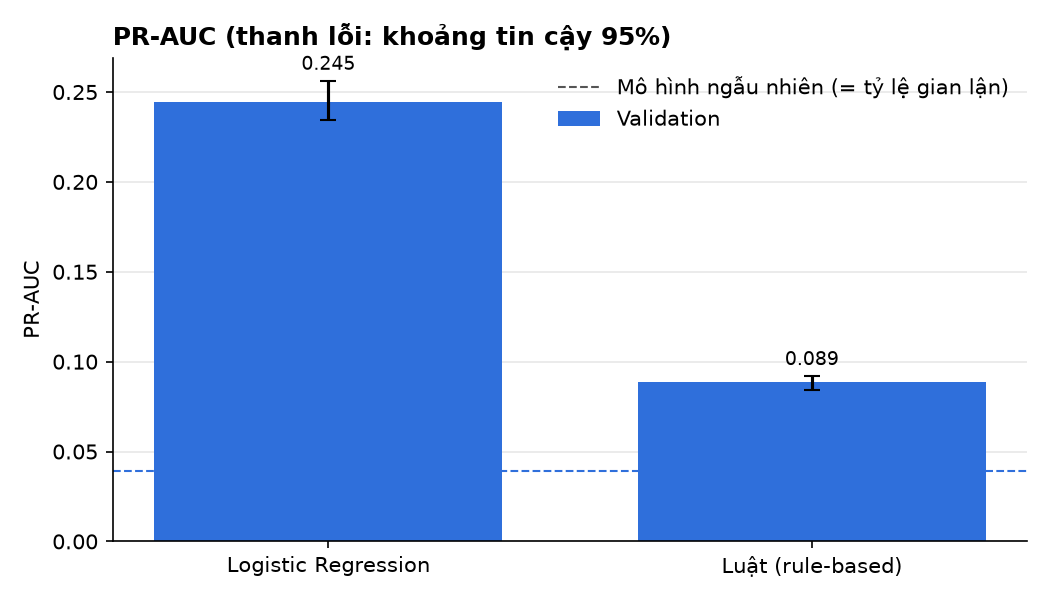
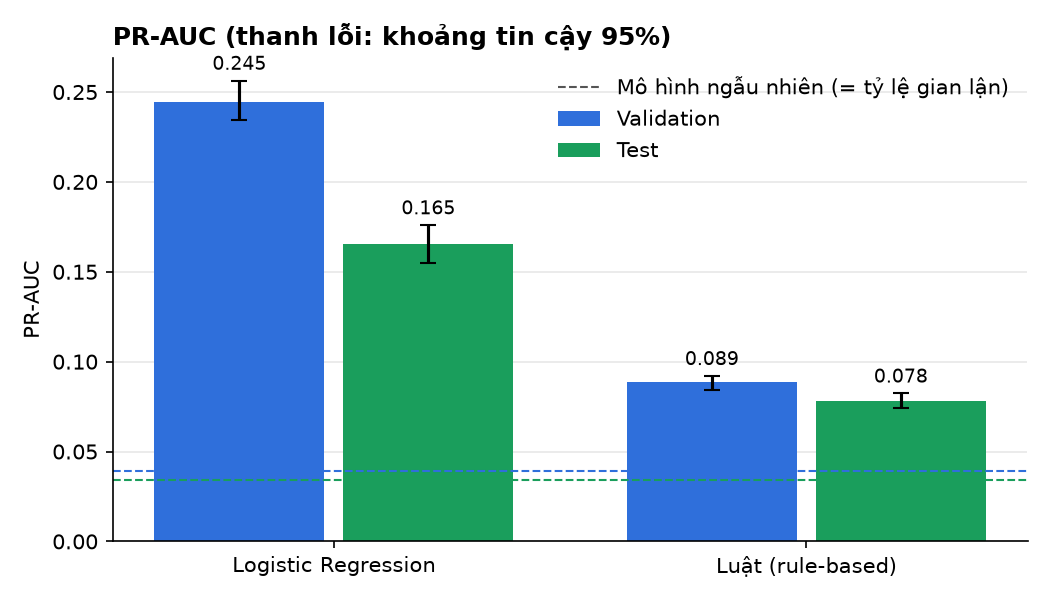
README: test results for run-d6faa4699008 and updated overview status
Add test rows and charts from make report, explain the validation to test
drop, the rule-based zeros (discrete scores), and why the second test run
does not re-select the model (all shared metrics match run-515a1190a0a4).

diff --git a/README.md b/README.md
@@ -26,18 +26,23 @@ Chi tiết từng giai đoạn, rủi ro và tài liệu tham khảo: [tổng qu
 
 ## Kết quả
 
-Kết quả trên tập **validation** của IEEE-CIS, lần chạy `run-d6faa4699008` (config `draft`, commit `fa34646`). Đây chưa phải kết quả test cuối cùng.
+Đánh giá cuối trên IEEE-CIS, lần chạy `run-d6faa4699008` (config `frozen`, commit `fa34646`). Tập test chỉ được mở một lần cho config này.
 
 | Mô hình | Tập | PR-AUC [95% CI] | Tỷ lệ gian lận | Recall @ precision 0,5 | Recall @ FPR 5% |
 | --- | --- | --- | --- | --- | --- |
 | Logistic Regression | Validation | 0,245 [0,234; 0,256] | 3,90% | 0,14 | 0,33 |
+| Logistic Regression | **Test** | **0,165 [0,155; 0,176]** | 3,44% | 0,03 | 0,28 |
 | Luật (rule-based) | Validation | 0,089 [0,084; 0,092] | 3,90% | 0,00 | 0,00 |
+| Luật (rule-based) | **Test** | **0,078 [0,074; 0,082]** | 3,44% | 0,00 | 0,22 |
 
-Logistic Regression có PR-AUC gấp khoảng 6 lần mô hình ngẫu nhiên (bằng tỷ lệ gian lận, 0,039). Baseline luật chỉ nhỉnh hơn ngẫu nhiên và có recall bằng 0 ở cả hai mục tiêu.
+- **Logistic Regression tốt hơn baseline luật** trên cả hai tập. Trên test, PR-AUC gấp khoảng 4,8 lần mô hình ngẫu nhiên (bằng tỷ lệ gian lận, 0,034); trên validation là khoảng 6,3 lần.
+- **Kết quả giảm từ validation sang test.** Recall tại FPR 5% (không phụ thuộc tỷ lệ gian lận) giảm từ 0,33 xuống 0,28, nên mức giảm không chỉ do tỷ lệ gian lận thấp hơn. Đây là dấu hiệu dữ liệu thay đổi theo thời gian. Recall khi giữ precision ≥ 0,5 giảm mạnh (0,14 → 0,03): ngưỡng cho precision cao không ổn định giữa hai giai đoạn.
+- **Các số 0 của baseline luật** không có nghĩa là luật không bắt được gì. Điểm của luật chỉ có vài mức rời rạc. Ngay cả ở mức chặt nhất (ngưỡng 0,67), luật bắt được 23,8% gian lận trên validation nhưng báo nhầm 5,1% giao dịch tốt, vượt mục tiêu 5% một chút, nên recall tại FPR 5% bằng 0. Trên test, cùng mức đó chỉ báo nhầm 3,9%, nên recall là 0,22.
+- **Về lần chạy test trước:** đã có một lần chạy test (`run-515a1190a0a4`) với config cũ, trước khi thêm metric `fpr_target`. Mô hình, đặc trưng và ngưỡng giống hệt nhau. Mọi metric có ở cả hai lần đều trùng khớp, nên lần chạy thứ hai chỉ bổ sung recall tại FPR 5%, không dùng kết quả test để chọn lại mô hình.
 
 <p align="center"><img src="docs/assets/results/split.png" alt="Số giao dịch và tỷ lệ gian lận của train, validation, test" width="70%"></p>
-<p align="center"><img src="docs/assets/results/pr_auc.png" alt="PR-AUC của hai baseline trên validation kèm khoảng tin cậy 95%" width="70%"></p>
-<p align="center"><img src="docs/assets/results/recall_targets.png" alt="Recall khi precision ≥ 0,5 và khi FPR ≤ 5% trên validation" width="100%"></p>
+<p align="center"><img src="docs/assets/results/pr_auc.png" alt="PR-AUC của hai baseline trên validation và test kèm khoảng tin cậy 95%" width="70%"></p>
+<p align="center"><img src="docs/assets/results/recall_targets.png" alt="Recall khi precision ≥ 0,5 và khi FPR ≤ 5% trên validation và test" width="100%"></p>
 
 Lệnh `make report` vẽ ba biểu đồ trên vào `docs/assets/results/`:
 

diff --git a/docs/product/project-overview.md b/docs/product/project-overview.md
@@ -78,7 +78,7 @@ Hai sản phẩm **chung nền tảng, không chung dữ liệu** ([ADR 0002](..
 | 5 | E | Báo cáo thí nghiệm rò rỉ, mô hình Gradient Boosting, API chấm điểm | Đăng ký trước danh sách config chạy test; ADR framework API |
 | 6 | F | Dashboard, báo cáo thực tập | ADR framework dashboard |
 
-**Trạng thái hiện tại:** Stage A/B đã xong code (T01–T10 và bổ sung recall tại FPR) và đã merge vào `main` (PR #2). Contract revision 2 đang chờ duyệt. 9 quyết định EDA đã duyệt. Đã chạy `make baseline` trên validation với config mới (`run-d6faa4699008`): Logistic Regression PR-AUC 0,245, baseline luật 0,089 (xem [README](../../README.md#kết-quả)). Config baseline vẫn ở `draft`, chờ chủ dự án đặt lại `frozen` và chạy test. Đã có **một** lần chạy test (`run-515a1190a0a4`, 2026-11-03) với config cũ trước khi thêm `fpr_target`. Đặc tả Stage C (bản nháp): [`stage-c-spec.draft.md`](../architecture/stage-c-spec.draft.md).
+**Trạng thái hiện tại:** Stage A/B đã xong code (T01–T10 và bổ sung recall tại FPR) và đã merge vào `main` (PR #2). Contract revision 2 đang chờ duyệt. 9 quyết định EDA đã duyệt. Đã chạy đánh giá test một lần với config `frozen` (`run-d6faa4699008`): Logistic Regression PR-AUC 0,165 trên test (0,245 trên validation), baseline luật 0,078 (xem [README](../../README.md#kết-quả)). Lần chạy test trước (`run-515a1190a0a4`, config cũ chưa có `fpr_target`) cho kết quả trùng khớp ở mọi metric chung. **Stage B hoàn tất**; Stage A chỉ còn chờ duyệt contract revision 2. Bước tiếp theo là Stage C. Đặc tả Stage C (bản nháp): [`stage-c-spec.draft.md`](../architecture/stage-c-spec.draft.md).
 
 ## 6. Rủi ro và hạn chế đã biết
 
@@ -158,7 +158,7 @@ Mỗi nhóm xếp theo thứ tự nên đọc. Chỉ nguồn có trong mục 7.5
 | T06 | Metrics | Xong; bổ sung recall tại FPR 5% |
 | T07 | Baseline dựa trên luật | Xong |
 | T08 | Baseline Logistic Regression | Xong |
-| T09 | Run log, CLI, quy tắc test-một-lần | Xong; config về `draft`, **chưa chạy test với config mới** |
+| T09 | Run log, CLI, quy tắc test-một-lần | Xong; config `frozen`, đã chạy test (`run-d6faa4699008`) |
 | T10 | Test chống rò rỉ dữ liệu | Xong |
 
 Toàn bộ Stage A/B đã gộp qua nhánh `integration/stage-ab` và merge vào `main` (PR #2).

diff --git a/docs/assets/results/summary.md b/docs/assets/results/summary.md
@@ -1,6 +1,8 @@
-Run `run-d6faa4699008` (stage: validation)
+Run `run-d6faa4699008` (stage: final)
 
 | Mô hình | Tập | PR-AUC [95% CI] | Tỷ lệ gian lận | Recall @ precision 0.5 | Recall @ FPR 5% |
 | --- | --- | --- | --- | --- | --- |
 | Logistic Regression | Validation | 0.245 [0.234, 0.256] | 3.90% | 0.14 | 0.33 |
+| Logistic Regression | Test | 0.165 [0.155, 0.176] | 3.44% | 0.03 | 0.28 |
 | Luật (rule-based) | Validation | 0.089 [0.084, 0.092] | 3.90% | 0.00 | 0.00 |
+| Luật (rule-based) | Test | 0.078 [0.074, 0.082] | 3.44% | 0.00 | 0.22 |
